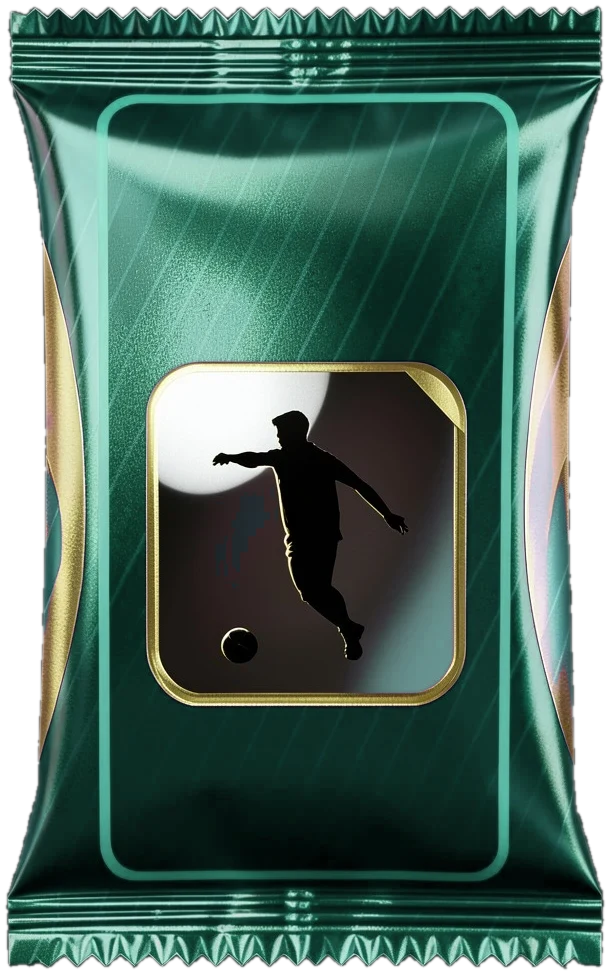
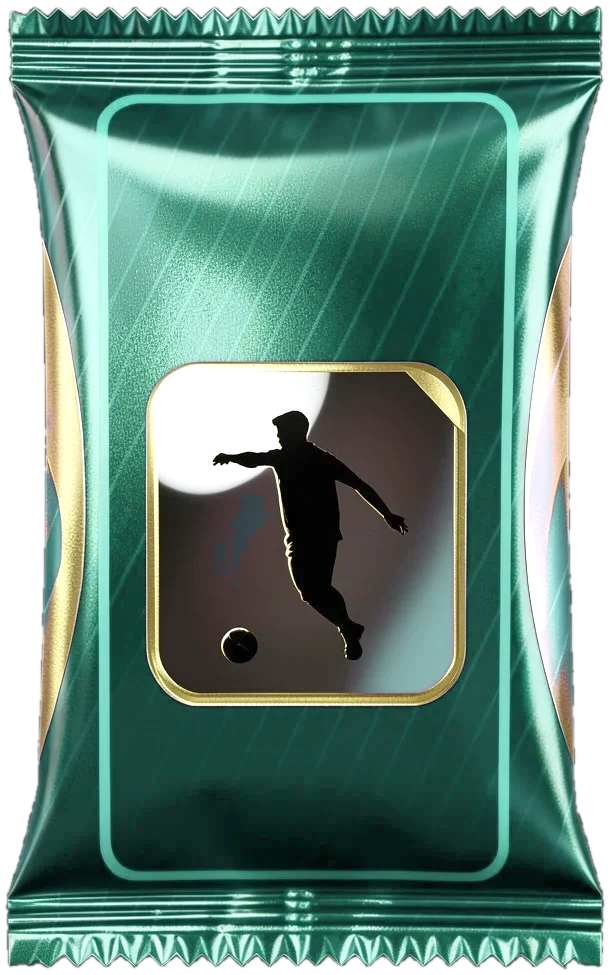
Atualizacao 20: 4 packs (prata, verde, roxo, dourado) com novas probabilidades

diff --git a/frontend/dashboard.html b/frontend/dashboard.html
@@ -627,10 +627,6 @@ body { font-family: 'Inter', 'Segoe UI', sans-serif; min-height: 100vh; overflow
   cursor: default;
 }
 .pack-envelope:hover { filter: drop-shadow(0 28px 55px rgba(0,0,0,0.95)); }
-#pack-std-inner, #pack-pre-inner { background: none !important; } #pack-std-outer, #pack-pre-outer, #pack-std-inner, #pack-pre-inner { filter: none !important; box-shadow: none !important; }
-#pack-std-inner { background-image: url("images/pack-standard.png") !important; background-size: cover !important; background-position: center !important; }
-#pack-pre-inner { background-image: url("images/pack-premium.png") !important; background-size: contain !important; background-repeat: no-repeat !important; background-position: center !important; border: none !important; border-radius: 0 !important; overflow: visible !important; box-shadow: none !important; } #pack-std-inner { background-size: contain !important; background-repeat: no-repeat !important; border: none !important; border-radius: 0 !important; overflow: visible !important; box-shadow: none !important; }
-#pack-std-inner > *, #pack-pre-inner > * { display: none !important; }
 .pack-envelope.premium-body { animation: floatPackPre 3.5s ease-in-out infinite; }
 
 @keyframes floatPack { 0%,100%{transform:translateY(0) rotate(-1.5deg)} 50%{transform:translateY(-16px) rotate(-1.5deg)} }
@@ -1306,16 +1302,21 @@ body { font-family: 'Inter', 'Segoe UI', sans-serif; min-height: 100vh; overflow
           <p class="page-sub">Abre packs e descobre novos cromos!</p>
         </div>
         <div class="packs-wrap">
-
-          <!-- Pack Standard -->
-          <div style="display:flex;flex-direction:column;align-items:center;gap:20px;">
-            <div id="pack-std-outer" style="width:220px;height:310px;perspective:1200px;cursor:pointer;animation:floatPack 3s ease-in-out infinite;"><div id="pack-std-inner" style="position:relative;width:100%;height:100%;border-radius:22px;background:linear-gradient(135deg,#0d3b3a 0%,#0a1f28 35%,#071418 60%,#0d2b2e 100%);border:5px solid rgba(0,0,0,0.7);box-shadow:0 12px 30px rgba(0,0,0,0.5);overflow:hidden;display:flex;flex-direction:column;align-items:center;justify-content:space-between;padding:20px 16px 18px;transition:transform 0.4s ease,box-shadow 0.4s ease;"><div style="position:absolute;inset:0;border-radius:22px;background:repeating-linear-gradient(115deg,rgba(255,255,255,0.04) 0px,rgba(255,255,255,0.04) 2px,transparent 2px,transparent 10px);pointer-events:none;"></div><div id="pack-std-shine" style="position:absolute;inset:0;pointer-events:none;opacity:0.4;mix-blend-mode:screen;background:radial-gradient(circle at 50% 50%,rgba(255,255,255,0.55),transparent 45%);border-radius:22px;transition:opacity 0.3s;"></div><div style="position:absolute;inset:10px;border-radius:16px;border:2px solid rgba(255,255,255,0.15);pointer-events:none;"></div><div style="position:absolute;left:14px;top:0;bottom:0;display:flex;align-items:center;pointer-events:none;"><span style="writing-mode:vertical-rl;transform:rotate(180deg);font-family:Inter,sans-serif;font-size:9px;letter-spacing:3px;color:rgba(255,255,255,0.3);font-weight:700;">CADERNETA DIGITAL</span></div><div style="text-align:center;position:relative;z-index:2;"><div style="font-family:'Bebas Neue',sans-serif;font-size:28px;color:#c8a84b;letter-spacing:1px;">Pack</div><div style="font-family:Inter,sans-serif;font-size:11px;font-weight:800;letter-spacing:5px;color:rgba(255,255,255,0.75);margin-top:2px;">STANDARD</div></div><div style="display:flex;align-items:center;justify-content:center;flex:1;position:relative;z-index:2;"><img src="images/Logo/logo-icon.png" style="width:110px;height:110px;object-fit:contain;filter:drop-shadow(0 6px 18px rgba(0,0,0,0.7)) drop-shadow(0 0 16px rgba(200,168,75,0.3));"/></div><div style="display:flex;align-items:center;justify-content:center;gap:6px;position:relative;z-index:2;"><div style="width:18px;height:18px;border-radius:50%;background:#c8a84b;color:#06110d;display:flex;align-items:center;justify-content:center;font-size:9px;font-weight:800;">7</div><div style="font-family:Inter,sans-serif;font-size:10px;font-weight:700;letter-spacing:1px;color:rgba(255,255,255,0.7);">CROMOS</div></div></div></div>
-            <div class="pack-info"><div class="pack-info-preco">1,50 €</div><button class="pack-info-btn" onclick="comprarPack('standard')">Comprar Pack</button><div class="pack-saldo-depois">Ficará com <span id="saldo-depois-std">---</span> €</div></div>
+          <div class="pk-card">
+            <div id="pack-pra-outer" class="pk-outer" style="animation:floatPack 3.2s ease-in-out infinite;" onclick="comprarPack('prata')"><div id="pack-pra-inner" class="pk-inner"></div></div>
+            <div class="pack-info"><div class="pack-info-preco pra" data-pk-preco="prata">0,75 €</div><div class="pk-cromos" data-pk-cromos="prata">3 cromos</div><button class="pack-info-btn pra" onclick="comprarPack('prata')">Comprar Pack</button></div>
           </div>
-          <!-- Pack Premium -->
-          <div style="display:flex;flex-direction:column;align-items:center;gap:20px;">
-            <div id="pack-pre-outer" style="width:220px;height:310px;perspective:1200px;cursor:pointer;animation:floatPackPre 3.5s ease-in-out infinite;"><div id="pack-pre-inner" style="position:relative;width:100%;height:100%;border-radius:22px;background:linear-gradient(135deg,#1a0a2e 0%,#16082a 35%,#0d0520 60%,#1a0a2e 100%);border:5px solid rgba(0,0,0,0.7);box-shadow:0 12px 30px rgba(0,0,0,0.5);overflow:hidden;display:flex;flex-direction:column;align-items:center;justify-content:space-between;padding:20px 16px 18px;transition:transform 0.4s ease,box-shadow 0.4s ease;"><div style="position:absolute;inset:0;border-radius:22px;background:repeating-linear-gradient(115deg,rgba(255,255,255,0.04) 0px,rgba(255,255,255,0.04) 2px,transparent 2px,transparent 10px);pointer-events:none;"></div><div id="pack-pre-shine" style="position:absolute;inset:0;pointer-events:none;opacity:0.4;mix-blend-mode:screen;background:radial-gradient(circle at 50% 50%,rgba(255,255,255,0.55),transparent 45%);border-radius:22px;transition:opacity 0.3s;"></div><div style="position:absolute;inset:10px;border-radius:16px;border:2px solid rgba(255,255,255,0.15);pointer-events:none;"></div><div style="position:absolute;left:14px;top:0;bottom:0;display:flex;align-items:center;pointer-events:none;"><span style="writing-mode:vertical-rl;transform:rotate(180deg);font-family:Inter,sans-serif;font-size:9px;letter-spacing:3px;color:rgba(255,255,255,0.3);font-weight:700;">CADERNETA DIGITAL</span></div><div style="text-align:center;position:relative;z-index:2;"><div style="font-family:'Bebas Neue',sans-serif;font-size:28px;color:#d980fa;letter-spacing:1px;">Pack</div><div style="font-family:Inter,sans-serif;font-size:11px;font-weight:800;letter-spacing:5px;color:rgba(255,255,255,0.75);margin-top:2px;">PREMIUM</div></div><div style="display:flex;align-items:center;justify-content:center;flex:1;position:relative;z-index:2;"><img src="images/Logo/logo-icon.png" style="width:110px;height:110px;object-fit:contain;filter:drop-shadow(0 6px 18px rgba(0,0,0,0.7)) drop-shadow(0 0 16px rgba(217,128,250,0.3));"/></div><div style="display:flex;align-items:center;justify-content:center;gap:6px;position:relative;z-index:2;"><div style="width:18px;height:18px;border-radius:50%;background:#d980fa;color:#fff;display:flex;align-items:center;justify-content:center;font-size:9px;font-weight:800;">7</div><div style="font-family:Inter,sans-serif;font-size:10px;font-weight:700;letter-spacing:1px;color:rgba(255,255,255,0.7);">CROMOS</div></div></div></div>
-            <div class="pack-info"><div class="pack-info-preco pre">2,00 €</div><button class="pack-info-btn pre" onclick="comprarPack('premium')">Comprar Pack</button><div class="pack-saldo-depois">Ficará com <span id="saldo-depois-pre">---</span> €</div></div>
+          <div class="pk-card">
+            <div id="pack-std-outer" class="pk-outer" style="animation:floatPack 3s ease-in-out infinite;" onclick="comprarPack('standard')"><div id="pack-std-inner" class="pk-inner"></div></div>
+            <div class="pack-info"><div class="pack-info-preco" data-pk-preco="standard">1,50 €</div><div class="pk-cromos" data-pk-cromos="standard">7 cromos</div><button class="pack-info-btn" onclick="comprarPack('standard')">Comprar Pack</button></div>
+          </div>
+          <div class="pk-card">
+            <div id="pack-pre-outer" class="pk-outer" style="animation:floatPackPre 3.5s ease-in-out infinite;" onclick="comprarPack('premium')"><div id="pack-pre-inner" class="pk-inner"></div></div>
+            <div class="pack-info"><div class="pack-info-preco pre" data-pk-preco="premium">2,00 €</div><div class="pk-cromos" data-pk-cromos="premium">7 cromos</div><button class="pack-info-btn pre" onclick="comprarPack('premium')">Comprar Pack</button></div>
+          </div>
+          <div class="pk-card">
+            <div id="pack-dou-outer" class="pk-outer" style="animation:floatPackPre 3.8s ease-in-out infinite;" onclick="comprarPack('dourado')"><div id="pack-dou-inner" class="pk-inner"></div></div>
+            <div class="pack-info"><div class="pack-info-preco dou" data-pk-preco="dourado">4,00 €</div><div class="pk-cromos" data-pk-cromos="dourado">9 cromos</div><button class="pack-info-btn dou" onclick="comprarPack('dourado')">Comprar Pack</button></div>
           </div>
         </div>
       </div>
@@ -2323,21 +2324,59 @@ const CROMOS_VERSAO = '20261117a';
 const CROMOS_IMAGENS = {};
 ['fcps','ccrdsv'].forEach(cl=>{for(let n=1;n<=CROMOS_DISPONIVEIS[cl].total;n++)CROMOS_IMAGENS[`${cl}-${n}`]=`images/cromos/${cl}-${n}.webp?v=${CROMOS_VERSAO}`;});
 function getRaridade(clube,num){const c=CROMOS_DISPONIVEIS[clube];if(c.lendarios.includes(num))return'lendario';if(c.epicos.includes(num))return'epico';if(c.raros.includes(num))return'raro';return'comum';}
-function gerarCromo(tipoPack){
+/* ===== CONFIGURAÇÃO DOS PACKS =====
+   preco            = euros
+   cromos           = quantos cromos saem
+   raroGarantidos   = nº de cromos RAROS que saem sempre (os épicos entram neste grupo)
+   raroExtra        = chance (0 a 1) de CADA um dos restantes cromos também ser raro
+   raroMax          = máximo de raros no pack
+   epicoNoRaro      = chance (0 a 1) de um cromo raro ser promovido a ÉPICO
+   lendario         = chance (0 a 1) de o PACK trazer 1 lendário (0.01 = 1%)
+   Todos os outros cromos são comuns. */
+const PACKS={
+  prata:   {preco:0.50, cromos:3,  raroGarantidos:0, raroExtra:0,    raroMax:0, epicoNoRaro:0,    lendario:0},
+  standard:{preco:1.50, cromos:7,  raroGarantidos:1, raroExtra:0.05, raroMax:3, epicoNoRaro:0, lendario:0.0001},
+  premium: {preco:2.50, cromos:10, raroGarantidos:2, raroExtra:0.07, raroMax:5, epicoNoRaro:0, lendario:0.001},
+  dourado: {preco:4.00, cromos:13, raroGarantidos:5, raroExtra:0,    raroMax:5, epicoNoRaro:0, lendario:0.01}
+};
+/* os preços e o nº de cromos que aparecem na página vêm daqui (um só sítio para mudar) */
+document.addEventListener('DOMContentLoaded',function(){
+  Object.keys(PACKS).forEach(function(k){
+    var p=document.querySelector('[data-pk-preco="'+k+'"]'),c=document.querySelector('[data-pk-cromos="'+k+'"]');
+    if(p)p.textContent=PACKS[k].preco.toFixed(2).replace('.',',')+' €';
+    if(c)c.textContent=PACKS[k].cromos+' cromos';
+  });
+});
+function cromoDaCategoria(cat){
   const clube=Math.random()<0.5?'fcps':'ccrdsv';
   const c=CROMOS_DISPONIVEIS[clube];
-  const rand=Math.random()*100;
-  const p=tipoPack==='premium'?{lend:5,epico:20,raro:50}:{lend:2,epico:7,raro:27};
   let num;
-  if(rand<p.lend)num=c.lendarios[Math.floor(Math.random()*c.lendarios.length)];
-  else if(rand<p.epico)num=c.epicos[Math.floor(Math.random()*c.epicos.length)];
-  else if(rand<p.raro)num=c.raros[Math.floor(Math.random()*c.raros.length)];
+  if(cat==='lendario')num=c.lendarios[Math.floor(Math.random()*c.lendarios.length)];
+  else if(cat==='epico')num=c.epicos[Math.floor(Math.random()*c.epicos.length)];
+  else if(cat==='raro'){const pool=[...c.raros,...c.epicos];num=pool[Math.floor(Math.random()*pool.length)];}  /* os épicos contam como raros nos packs */
   else{do{num=Math.floor(Math.random()*c.total)+1;}while([...c.lendarios,...c.epicos,...c.raros].includes(num));}
   return{clube,num,raridade:getRaridade(clube,num)};
 }
+function gerarPack(tipo){
+  const cfg=PACKS[tipo]||PACKS.standard;
+  const cats=[];
+  let raros=Math.min(cfg.raroGarantidos,cfg.cromos);
+  for(let i=0;i<raros;i++)cats.push('raro');
+  for(let i=raros;i<cfg.cromos;i++){
+    if(raros<cfg.raroMax&&Math.random()<cfg.raroExtra){cats.push('raro');raros++;}
+    else cats.push('comum');
+  }
+  for(let i=0;i<cats.length;i++)if(cats[i]==='raro'&&Math.random()<cfg.epicoNoRaro)cats[i]='epico';
+  if(Math.random()<cfg.lendario){
+    let i=cats.indexOf('raro');if(i<0)i=cats.indexOf('epico');if(i<0)i=0;
+    cats[i]='lendario';
+  }
+  for(let i=cats.length-1;i>0;i--){const j=Math.floor(Math.random()*(i+1));[cats[i],cats[j]]=[cats[j],cats[i]];}
+  return cats.map(cromoDaCategoria);
+}
 async function comprarPack(tipo){
   const{data:{user}}=await sb.auth.getUser();if(!user)return;
-  const preco=tipo==='premium'?2.0:1.5;
+  const cfg=PACKS[tipo]||PACKS.standard;const preco=cfg.preco;
   const{data:profile}=await sb.from('profiles').select('saldo').eq('id',user.id).single();
   if(!profile||profile.saldo<preco){alert(`Saldo insuficiente! Precisas de ${preco.toFixed(2).replace('.',',')}€.
 Carrega saldo em Início → + Carregar saldo`);return;}
@@ -2346,7 +2385,7 @@ Carrega saldo em Início → + Carregar saldo`);return;}
   document.getElementById('stat-saldo').textContent=novoSaldo.toFixed(2).replace('.',',')+'  €';
   const st=document.getElementById('user-saldo-top');if(st)st.textContent=novoSaldo.toFixed(2).replace('.',',');
   atualizarSaldoPacks(novoSaldo);
-  const cromos=[];for(let i=0;i<7;i++)cromos.push(gerarCromo(tipo));
+  const cromos=gerarPack(tipo);
   await guardarCromosColecao(user.id,cromos);
   mostrarPackOverlay(cromos,tipo);
 }
@@ -2832,7 +2871,7 @@ setInterval(async () => {
 <script>
 (function(){
   function ip(o,i,s){const outer=document.getElementById(o),inner=document.getElementById(i),shine=document.getElementById(s);if(!outer||!inner)return;outer.addEventListener('mousemove',function(e){const r=outer.getBoundingClientRect(),px=(e.clientX-r.left)/r.width,py=(e.clientY-r.top)/r.height;inner.style.transform=`rotateX(${(0.5-py)*22}deg) rotateY(${(px-0.5)*22}deg) scale(1.04)`;inner.style.transition='transform 0.05s linear';inner.style.boxShadow='0 30px 60px rgba(0,0,0,0.6),0 0 40px rgba(200,168,75,0.4)';if(shine){shine.style.background=`radial-gradient(circle at ${px*100}% ${py*100}%,rgba(255,255,255,0.55),transparent 45%)`;shine.style.opacity='0.9';}});outer.addEventListener('mouseleave',function(){inner.style.transform='rotateX(0) rotateY(0) scale(1)';inner.style.transition='transform 0.4s ease';inner.style.boxShadow='0 12px 30px rgba(0,0,0,0.5)';if(shine)shine.style.opacity='0.4';});}
-  document.addEventListener('DOMContentLoaded',function(){ip('pack-std-outer','pack-std-inner','pack-std-shine');ip('pack-pre-outer','pack-pre-inner','pack-pre-shine');});
+  document.addEventListener('DOMContentLoaded',function(){ip('pack-std-outer','pack-std-inner','pack-std-shine');ip('pack-pre-outer','pack-pre-inner','pack-pre-shine');ip('pack-pra-outer','pack-pra-inner','pack-pra-shine');ip('pack-dou-outer','pack-dou-inner','pack-dou-shine');});
 })();
 function mostrarNotificacao(msg, tipo) {
   const cor = tipo === 'erro' ? '#e74c3c' : tipo === 'sucesso' ? '#2ecc71' : '#c8a84b';

diff --git a/frontend/menu-mosaico.css b/frontend/menu-mosaico.css
@@ -514,10 +514,25 @@ body > button[style*="78px"]{left:auto !important;right:18px !important;bottom:1
 #pagina-cadernetas .cad-label-sub{font-size:12px;color:#6a77a8;}
 
 /* Packs */
-#pagina-packs .pack-info-preco{font-family:var(--mz-fonte);font-weight:700;color:var(--mz-azul);font-size:38px;}
+#pagina-packs .pack-info-preco{font-family:var(--mz-fonte);font-weight:700;color:var(--mz-azul);font-size:34px;margin-bottom:2px;}
 #pagina-packs .pack-info-preco.pre{color:var(--mz-azul);}
-#pagina-packs .pack-info-btn{border-radius:0;background:var(--mz-azul-vivo);color:#fff;font-family:var(--mz-fonte);font-weight:700;font-size:19px;letter-spacing:.08em;text-transform:uppercase;}
+#pagina-packs .pack-info-btn{border-radius:0;background:var(--mz-azul-vivo);color:#fff;font-family:var(--mz-fonte);font-weight:700;font-size:15px;letter-spacing:.08em;text-transform:uppercase;width:auto;padding:7px 20px;margin-bottom:0;}
 #pagina-packs .pack-info-btn:hover,#pagina-packs .pack-info-btn.pre:hover{background:#3a6df0;transform:none;}
 #pagina-packs .pack-info-btn.pre{background:var(--mz-azul-vivo);}
 #pagina-packs .pack-info div,#pagina-packs .pack-info span{color:#6a77a8;}
 #pagina-packs .pack-info b,#pagina-packs .pack-info strong{color:var(--mz-azul);}
+
+/* ===== Packs: 4 packs (prata, standard, premium, dourado) ===== */
+#pagina-packs .packs-wrap{gap:46px;margin-top:40px;align-items:flex-start;}
+#pagina-packs .pk-card{display:flex;flex-direction:column;align-items:center;gap:14px;}
+#pagina-packs .pk-outer{width:200px;height:320px;perspective:1200px;cursor:pointer;}
+#pagina-packs .pk-inner{width:100%;height:100%;background-size:contain;background-repeat:no-repeat;background-position:center;transition:transform .4s ease;filter:drop-shadow(0 10px 14px rgba(20,30,90,.28));}
+#pack-pra-inner{background-image:url("images/pack-prata.png");}
+#pack-std-inner{background-image:url("images/pack-standard.png");}
+#pack-pre-inner{background-image:url("images/pack-premium.png");}
+#pack-dou-inner{background-image:url("images/pack-dourado.png");}
+#pagina-packs .pack-info{width:auto;display:flex;flex-direction:column;align-items:center;}
+#pagina-packs .pk-cromos{font-size:12px;letter-spacing:.14em;text-transform:uppercase;color:#6a77a8;margin-bottom:10px;font-weight:600;}
+#pagina-packs .pack-info-preco.pra{color:#7d8794;}
+#pagina-packs .pack-info-preco.pre{color:#6b3fc4;}
+#pagina-packs .pack-info-preco.dou{color:#b8860b;}
